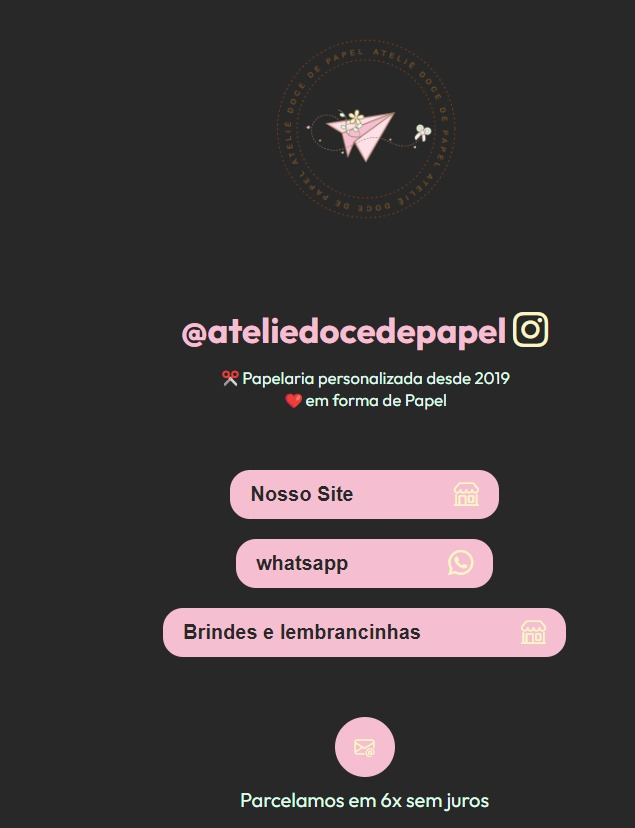
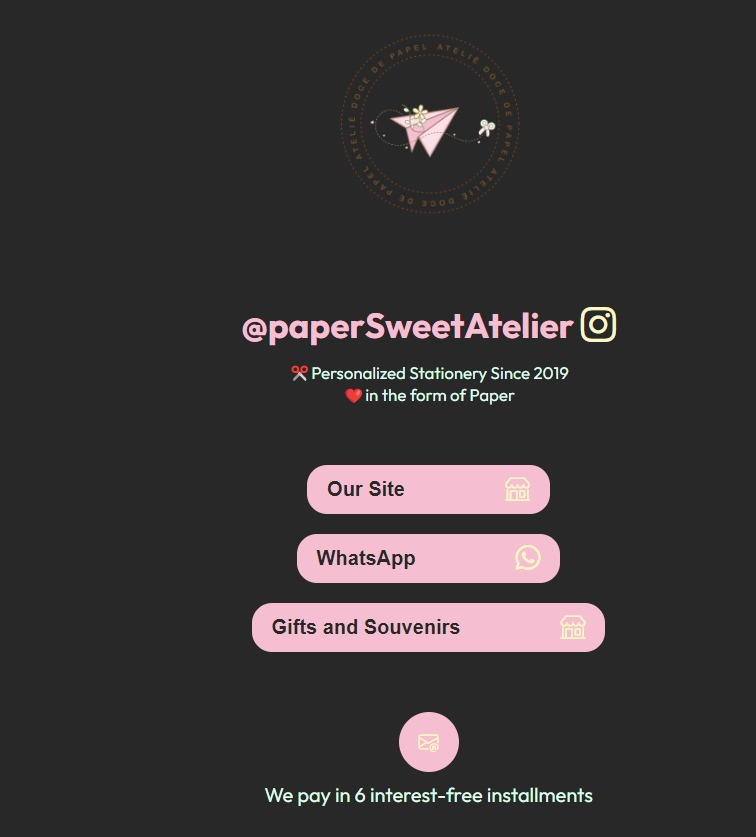
Add files via upload

diff --git a/index.html b/index.html
@@ -7,7 +7,9 @@
 
   <meta charset="UTF-8">
   <meta name="viewport" content="width=device-width, initial-scale=1.0">
-  <title>@Atelie</title>
+  <title>@Atelier</title>
+
+  <link rel="shortcut icon" href="./assets/MARCADAGUASU.png" type="image/x-svg">
 
   <link rel="stylesheet" href="./style.css">
   <link href="https://fonts.googleapis.com/css2?family=Mulish:ital,wght@0,400;0,700;1,600&family=Outfit:wght@400;700&display=swap" rel="stylesheet">
@@ -19,15 +21,15 @@
 
       <a href="https://www.instagram.com/ateliedocedepapel/" target="_blank">
           <h1>
-          @ateliedocedepapel
+          @paperSweetAtelier
           <i class="bi-instagram"></i>
         </h1>
       </a>
 
       <p>
-        ✂Papelaria personalizada desde 2019 
+        ✂Personalized Stationery Since 2019
         <br>
-        ❤em forma de Papel
+        ❤in the form of Paper
       </p>
   
     </header>
@@ -36,21 +38,21 @@
       
       <a href="https://ateliedocedepapel.com.br/" target="_blank" class="link">
         <button>
-          <span>Nosso Site</span>
+          <span>Our Site</span>
           <i class="bi bi-shop"></i>
         </button>
       </a>
 
       <a href="https://api.whatsapp.com/send?1=pt_BR&phone=5521967818216" target="_blank" class="link">
         <button>
-          <span>whatsapp</span>
+          <span>WhatsApp</span>
           <i class="bi bi-whatsapp"></i>
         </button>
       </a>
 
       <a href="https://ateliedocedepapel.com.br/mimos-e-lembrancinhas/" target="_blank" class="link">
         <button>
-          <span>Brindes e lembrancinhas</span>
+          <span>Gifts and Souvenirs</span>
           <i class="bi bi-shop"></i>
         </button>
       </a>
@@ -60,7 +62,7 @@
     <footer>
       <a href="mailto:" class="btn-footer" target="_blank"><i class="bi bi-envelope-at"></i></a> 
 
-      <p>Parcelamos em 6x sem juros</p>
+      <p>We pay in 6 interest-free installments</p>
     </footer>
 
   </div>

diff --git a/README.md b/README.md
@@ -1,7 +1,7 @@
-<h1 align="center"> Menu_Bio </h1>
+<h1 align="center"> LinkDaBio </h1>
 
 <p align="center">
-  <img alt="imagem" src=./assets/print.png>
+  <img alt="imagem" src=./assets/imagem.png>
 </p>
 
 ---
@@ -25,4 +25,4 @@ Esse projeto está sob a licença MIT.
 ---
 
 Deploy:
-[Clicque aqui para acessar o Projeto!](https://)
+[Clicque aqui para acessar o Projeto!](https://caetanosbr.github.io/LBucci/)
